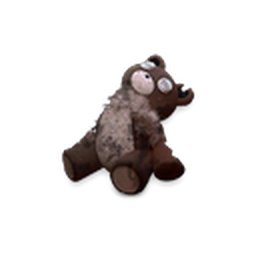
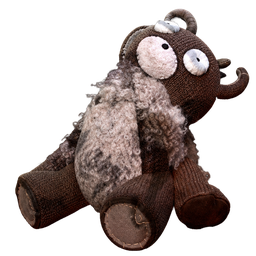
feat(relic,power): 为 ShabbyDoll 遗物增加巫术易伤与巫术虚弱能力解释浮窗，并同步补齐 big 能力图标与 ShabbyDoll 新图源

diff --git a/Sts2BalanceModCode/Relics/ShabbyDoll.cs b/Sts2BalanceModCode/Relics/ShabbyDoll.cs
@@ -10,6 +10,7 @@ using MegaCrit.Sts2.Core.HoverTips;
 using MegaCrit.Sts2.Core.Models;
 using MegaCrit.Sts2.Core.Models.RelicPools;
 using Sts2BalanceMod.Sts2BalanceModCode.Cards;
+using Sts2BalanceMod.Sts2BalanceModCode.Powers;
 
 namespace Sts2BalanceMod.Sts2BalanceModCode.Relics;
 
@@ -29,7 +30,9 @@ public sealed class ShabbyDoll : Sts2RelicModel
     protected override IEnumerable<IHoverTip> ExtraHoverTips => new IHoverTip[]
     {
         HoverTipFactory.FromCard<SorceryStrike>(upgrade: true),
-        HoverTipFactory.FromCard<SorceryDefend>(upgrade: true)
+        HoverTipFactory.FromCard<SorceryDefend>(upgrade: true),
+        HoverTipFactory.FromPower<SorceryVulnerable>(),
+        HoverTipFactory.FromPower<SorceryWeak>()
     };
 
     public override async Task AfterObtained()
